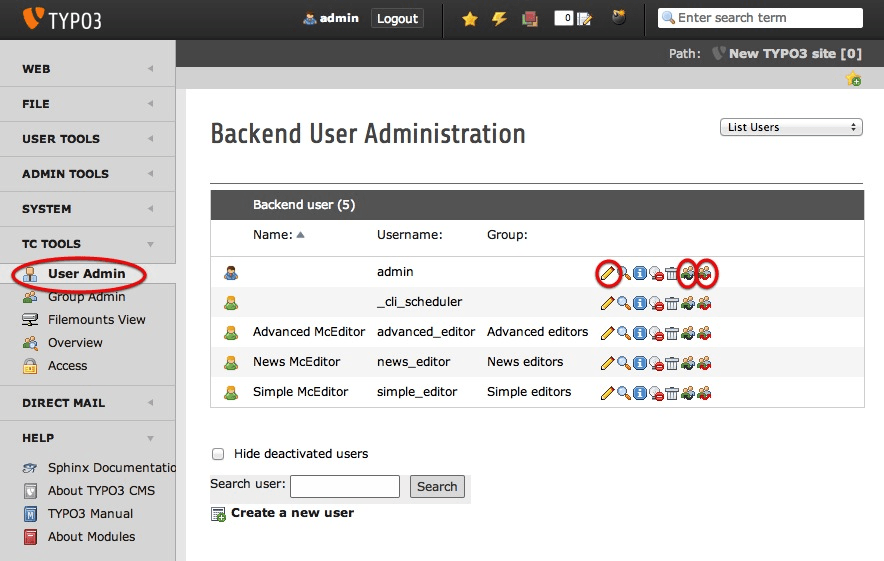
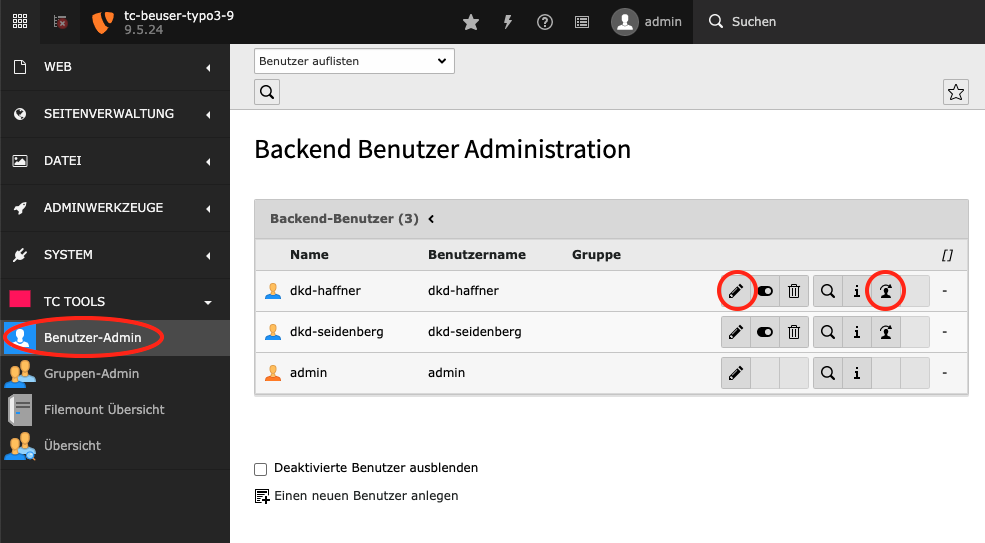
[Task] #136422: Update documentation for TYPO3 v9

diff --git a/Documentation/UserAdmin/Index.rst b/Documentation/UserAdmin/Index.rst
@@ -11,97 +11,74 @@
 Modul: Benutzer-Admin (User Admin)
 ==================================
 
-Alphabetische Auflistung der Backend-User
------------------------------------------
+Alphabetische Auflistung der Backend-Benutzer
+---------------------------------------------
 
-Wählen Sie im Modul „TC Tools“ das SubModul „Benutzer-Admin“. Mit einem Klick auf die Spaltenüberschrift „Username“
-erhalten Sie eine aufsteigend sortierte Liste der Backend-User Benutzernamen. Mit einem zweiten Klick auf die Spalten
-Überschrift Username erhalten Sie eine absteigend sortierte Liste der Backend-User Benutzernamen.
+Mit einem Klick auf die Spaltenüberschrift "Benutzername" erhalten Sie eine aufsteigend sortierte Liste der
+Backend-Benutzernamen. Mit einem zweiten Klick auf die Spaltenüberschrift erhalten Sie eine absteigend sortierte Liste
+der Backend-Benutzernamen.
 
 .. image:: Images/manual_html_540a6c36.png
-   :height: 16
-   :width: 16
-   :class: with-shadow float-left
+   :width: 28
+   :class: float-left
 
-Stift Benuter bearbeiten
+Benuter bearbeiten
 
 .. rst-class::  clear-both
 
 .. image:: Images/manual_html_7a9efbbe.png
-   :height: 16
-   :width: 16
-   :class: with-shadow float-left
+   :width: 28
+   :class: float-left
 
 Switch-User (switch to mode)
 
 .. rst-class::  clear-both
 
-.. image:: Images/manual_html_a9ccfc2.png
-   :height: 16
-   :width: 16
-   :class: with-shadow float-left
-
-Switch-User (switch back mode)
+.. image:: Images/manual_html_UserAdmin-Function.png
+   :class: with-shadow
 
 .. rst-class::  clear-both
 
-.. image:: Images/manual_html_UserAdmin-Function.png
-   :height: 561
-   :width: 884
-   :class: with-shadow
-
-Um die switch-to und switch-back Button freizugeben, muss das Checkbox "Enable switch-to in tc_beuser" bei dem einzelnen
-User aktiviert sein.
+Um den Switch-To-Button freizugeben, muss die Checkbox "Enable switch-to in tc_beuser" bei dem Benutzer aktiviert sein.
 
 .. image:: Images/manual_html_switchto.png
-   :height: 188
-   :width: 695
    :class: with-shadow
 
-Filterung deaktivierter Backend-User
-------------------------------------
+Filterung deaktivierter Backend-Benutzer
+----------------------------------------
 
-Deaktivierte Backen-User können aus der Liste der Backend-User herausgefiltert werden um so die Übersichtlichkeit der
-Liste zu erhöhen.
-
-Wählen Sie im Modul „TC Tools“ das SubModul „Benutzer-Admin“. Scrollen Sie an das Ende der Backend-User Liste. Durch
-anklicken der Checkbox „Deaktivierte Benutzer ausblenden“ werden so Deaktivierte Backend-User nicht länger abgebildet.
+Deaktivierte Backend-Benutzer können aus der Liste der herausgefiltert werden um so die Übersichtlichkeit der zu
+erhöhen.
 
 .. image:: Images/manual_html_m121583cf.png
-   :height: 455
-   :width: 652
    :class: with-shadow
 
 Frontend Benutzer importieren
 -----------------------------
 
-Wählen Sie oben rechts in der Auswahlbox „Frontend Benutzer importieren“. Sie bekommen eine Liste aller Frontend
+Wählen Sie oben in der Auswahlbox "Frontend Benutzer importieren". Sie bekommen eine Liste aller Frontend
 Benutzer angezeigt.
 
-Durch klicken auf das Stift Symbol („Diesen Datensatz importieren“) eines Benutzers, erscheint das ausgefüllte Formular
-zum anlegen eines neuen Benutzers. Durch das klicken von „Speichern und Schließen“ wird der Frontend Benutzer als
+.. image:: Images/Frontend_Benutzer_importieren.png
+   :class: with-shadow
+
+Durch Klicken auf das Symbol "Diesen Datensatz importieren" bei einem Benutzer, erscheint das ausgefüllte Formular
+zum Anlegen eines neuen Benutzers. Durch das Klicken von "Speichern und Schließen" wird der Frontend Benutzer als
 Backend Benutzer importiert.
 
 Neuen Benutzer anlegen
 ----------------------
 
-Wählen Sie im Modul „TC Tools“ das SubModul „Benutzer-Admin“. Wählen Sie oben rechts in der Auswahlbox „Einen neuen
-Benutzer anlegen“. Es wird ein Formular angezeigt mit dem Sie einen neuen Benutzer anzulegen können.
-
-Das Passwort für den Benutzer können Sie durch klicken des Buttons neben dem Passwort Feld generieren lassen.
+Wählen Sie oben in der Auswahlbox "Einen neuen Benutzer anlegen". Es wird ein Formular angezeigt, mit dem Sie einen
+neuen Benutzer anlegen können.
 
 .. image:: Images/manual_html_m39c99186.png
-   :height: 523
-   :width: 643
    :class: with-shadow
 
 Suche nach Backend-User
 -----------------------
 
-Wählen Sie im Modul „TC Tools“ das SubModul „Benutzer-Admin“. Am Ende der Backend-User Liste befindet sich das
-Suchformular. Es ermöglicht die Suche nach Benutzern durch Eingabe eines Suchworts (z.B. Namen).
+Klicken Sie oben auf das Lupe-Icon. Es ermöglicht die Suche nach Benutzern durch Eingabe eines Suchworts (z.B. Namen).
 
 .. image:: Images/manual_html_m38e0538c.png
-   :height: 458
-   :width: 655
    :class: with-shadow

diff --git a/Documentation/FilemountsView/Index.rst b/Documentation/FilemountsView/Index.rst
@@ -8,67 +8,68 @@
 
 .. _filemounts-view:
 
-Modul: Filemount (Filemounts View)
-==================================
+Modul: Filemount-Übersicht (Filemounts View)
+============================================
 
 Alphabetische Auflistung der Filemounts
 ---------------------------------------
 
-Mit einem Klick auf die Spaltenüberschrift „LABEL“ erhalten Sie eine aufsteigend sortierte Liste der Filemounts. Mit
-einem zweiten Klick auf die Spaltenüberschrift „LABEL“ erhalten Sie eine absteigend sortierte Liste der Filemounts.
+Mit einem Klick auf die Spaltenüberschrift "Bezeichnung" erhalten Sie eine aufsteigend sortierte Liste der Filemounts.
+Mit einem zweiten Klick auf die Spaltenüberschrift erhalten Sie eine absteigend sortierte Liste der Filemounts.
 
 .. image:: Images/manual_html_m50e28b9f.png
-   :height: 455
-   :width: 651
    :class: with-shadow
 
-Funktionen zum editieren von Datensätzen
+Funktionen zum Editieren von Datensätzen
 ----------------------------------------
 
 In der Filemount Liste haben Sie folgende Funktionen:
 
-.. image:: Images/manual_html_m6e752e0e.png
-   :height: 16
-   :width: 16
-   :class: with-shadow float-left
+.. image:: Images/Filemount_bearbeiten.png
+   :width: 28
+   :class: float-left
 
-Informationen anzeigen
+Bearbeiten
 
 .. rst-class::  clear-both
 
 .. image:: Images/manual_html_m1fe6459d.png
-   :height: 16
-   :width: 16
-   :class: with-shadow float-left
+   :width: 28
+   :class: float-left
 
-Datensatz verstecken
+Verstecken
 
 .. rst-class::  clear-both
 
 .. image:: Images/manual_html_458bab87.png
-   :height: 16
-   :width: 16
-   :class: with-shadow float-left
+   :width: 28
+   :class: float-left
 
-löschen
+Löschen
+
+.. rst-class::  clear-both
+
+.. image:: Images/manual_html_m6e752e0e.png
+   :width: 28
+   :class: float-left
+
+Informationen anzeigen
 
 .. rst-class::  clear-both
 
 Neuen Filemount anlegen
 -----------------------
 
-Wählen Sie oben rechts in der Auswahlbox „Einen neuen Filemount anlegen“. Es wird ein Formular angezeigt mit dem Sie
-einen neuen Filemount anlegen können.
+Wählen Sie oben in der Auswahlbox "Einen neuen Filemount anlegen". Es wird ein Formular angezeigt, mit dem Sie einen
+neuen Filemount anlegen können.
 
 .. image:: Images/manual_html_6feebec6.png
-   :height: 532
-   :width: 648
    :class: with-shadow
 
 
 Sortierung nach Kriterien
 -------------------------
 
-Die Filemount Liste kann nach verschiedenen Kriterien sortiert werden. Die Backend Filemount Liste nach der aktuellen
-Spaltenüberschrift sortiert, die Sortierung ist durch eine Markierung erkenntlich. Durch anklicken einer
-Spaltenüberschrift können sie die Sortierung verändern.
+Die Filemount-Liste kann nach verschiedenen Kriterien sortiert werden. Die Liste wird nach der aktuellen
+Spaltenüberschrift sortiert, die Sortierung ist durch eine Markierung erkenntlich. Durch Anklicken einer
+Spaltenüberschrift können Sie die Sortierung verändern.

diff --git a/Documentation/Overview/Index.rst b/Documentation/Overview/Index.rst
@@ -14,58 +14,45 @@ Modul: Übersicht (Overview)
 Benutzer Übersicht
 ------------------
 
-Wählen Sie einen Benutzer. Sie können nun über die Auswahlboxen bestimmen welche Informationsspalten angezeigt werden
-sollen. Über das Icon mit „Pluszeichen“ können Sie Informationen aufklappen und mit dem „Minuszeichen“ wieder schließen.
+Klicken Sie bei einem Benutzer auf die Lupe. Sie können nun über die Auswahlboxen bestimmen welche Informationsspalten
+angezeigt werden sollen. Über das Plus-Icon können Sie Informationen aufklappen und mit dem Minus-Icon wieder schließen.
 
 .. image:: Images/manual_html_3e4db70.png
-   :height: 456
    :width: 653
-   :class: with-shadow
+   :class: with-shadow float-left
 
 Benutzer Funktionen
 -------------------
 
 .. image:: Images/manual_html_540a6c36.png
-   :height: 16
-   :width: 16
-   :class: with-shadow float-left
+   :width: 28
+   :class: float-left
 
-Stift Benuter bearbeiten
+Benutzer bearbeiten
 
 .. rst-class::  clear-both
 
 .. image:: Images/manual_html_7a9efbbe.png
-   :height: 16
-   :width: 16
-   :class: with-shadow float-left
+   :width: 28
+   :class: float-left
 
-Switch-User (switch to mode)
-
-.. rst-class::  clear-both
-
-.. image:: Images/manual_html_a9ccfc2.png
-   :height: 16
-   :width: 16
-   :class: with-shadow float-left
-
-Switch-User (switch back mode)
+Switch user to
 
 .. rst-class::  clear-both
 
 .. image:: Images/manual_html_6cebfc9b.png
-   :height: 459
    :width: 657
-   :class: with-shadow
+   :class: with-shadow float-left
 
 Gruppen Übersicht
 -----------------
 
-Wählen Sie oben rechts in der Auswahlbox „Gruppen Übersicht“. Wählen Sie einen Gruppe aus. Sie können nun über die
-Auswahlboxen bestimmen welche Informationsspalten angezeigt werden sollen.
+Wählen Sie oben in der Auswahlbox "Gruppen Übersicht". Klicken Sie bei einer Gruppe auf die Lupe. Sie können nun über
+die Auswahlboxen bestimmen welche Informationsspalten angezeigt werden sollen.
 
-Über das Icon mit „Pluszeichen“ können Sie Informationen aufklappen und mit dem „Minuszeichen“ wieder schließen.
+Über das Plus-Icon können Sie Informationen aufklappen und mit dem Minus-Icon wieder schließen.
 
 .. image:: Images/manual_html_m818b49a.png
    :height: 456
    :width: 654
-   :class: with-shadow
+   :class: with-shadow float-left

diff --git a/Documentation/GroupAdmin/Index.rst b/Documentation/GroupAdmin/Index.rst
@@ -14,33 +14,27 @@ Modul: Gruppen-Admin (Group Admin)
 Alphabetische Auflistung der Backend Benutzergruppen
 ----------------------------------------------------
 
-Mit einem Klick auf die Spaltenüberschrift „Grouptitle“ erhalten Sie eine aufsteigend sortierte Liste der Backend
-Benutzergruppen. Mit einem zweiten Klick auf die Spaltenüberschrift „Grouptitle“ erhalten Sie eine absteigend sortierte
+Mit einem Klick auf die Spaltenüberschrift "Gruppenname" erhalten Sie eine aufsteigend sortierte Liste der Backend
+Benutzergruppen. Mit einem zweiten Klick auf die Spaltenüberschrift erhalten Sie eine absteigend sortierte
 Liste der Backend Benutzergruppen.
 
 .. image:: Images/manual_html_m3896e807.png
-   :height: 451
-   :width: 646
    :class: with-shadow
 
 Neue Benutzergruppe anlegen
 ---------------------------
 
-Wählen Sie oben rechts in der Auswahlbox „Eine neue Gruppe anlegen“. Es wird ein Formular angezeigt mit dem Sie einen
-neue Benutzergruppe an legen können.
+Wählen Sie oben in der Auswahlbox "Eine neue Gruppe anlegen". Es wird ein Formular angezeigt, mit dem Sie eine neue
+Benutzergruppe an legen können.
 
 .. image:: Images/manual_html_49259b59.png
-   :height: 535
-   :width: 652
    :class: with-shadow
 
 Suche nach Backend Benutzergruppen
 ----------------------------------
 
-Am Ende der Backend Benutzergruppe Liste befindet sich das Suchformular. Es ermöglicht die Suche nach Benutzergruppen
-durch Eingabe eines Suchworts (z.B. Namen).
+Klicken Sie oben auf das Lupe-Icon. Es ermöglicht die Suche nach Benutzergruppen durch Eingabe eines Suchworts
+(z.B. Namen).
 
 .. image:: Images/manual_html_12f65140.png
-   :height: 456
-   :width: 654
    :class: with-shadow

diff --git a/Documentation/UserTS-GroupTS/Index.rst b/Documentation/UserTS-GroupTS/Index.rst
@@ -11,10 +11,8 @@
 UserTS und GroupTS
 ==================
 
-Die Felder bei der Bearbeitung vom Benutzer bzw. Gruppen
-können per UserTS oder GroupTS ausgeblendet werden.
-Folgende TSConfig können in UserTS oder GroupTS verwendet
-werden.
+Die Felder bei der Bearbeitung vom Benutzer bzw. Gruppen können per UserTS oder GroupTS ausgeblendet werden. Folgende
+TSConfig können in UserTS oder GroupTS verwendet werden:
 
 .. t3-field-list-table::
  :header-rows: 1
@@ -23,8 +21,7 @@ werden.
    :Description,40: Beschreibung
 
  - :Property:    hideColumnGroup
-   :Description: entfernt aufgelistete Felder. Komma separiert
-                 mögliche Werte:
+   :Description: entfernt aufgelistete Felder. Mögliche Werte:
 
                  - hidden
                  - title
@@ -36,8 +33,7 @@ werden.
                  - TSconfig
 
  - :Property:    hideColumnUser
-   :Description: entfernt aufgelistete Felder. Komma separiert
-                 mögliche Werte:
+   :Description: entfernt aufgelistete Felder. Mögliche Werte:
 
                  - disable
                  - username
@@ -49,13 +45,12 @@ werden.
                  - lang
 
  - :Property:    passwordWizard
-   :Description: wenn auf 0 gesetzt, dann ist das Passwort-Wizard
-                 ausgeblendet.
+   :Description: wenn auf 0 gesetzt, dann ist das Passwort-Wizard ausgeblendet.
 
 
-Bsp:
+Beispiel:
 
-.. code-block:: typoscript
+.. code-block:: ts
 
    tc_beuser {
      // hide TSconfig from Group
